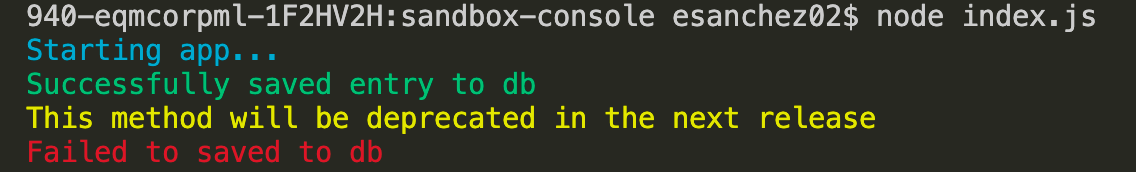
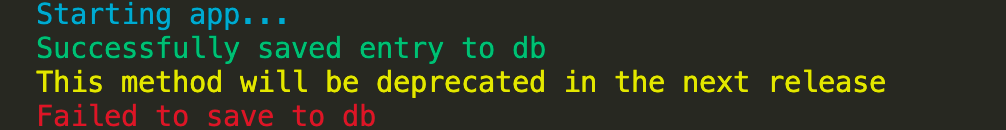
correct typo in Console.error example

Changed region(s): [[0.0, 0.0, 0.9861, 0.7692], [0.0, 0.8, 0.3698, 0.9846]]

diff --git a/README.md b/README.md
@@ -1,4 +1,4 @@
-# Dead Simple Console Colors
+# 💀 Dead Simple Console Colors 💀
 
 Straight forward info, success, warning, and error console color.
 
@@ -24,27 +24,27 @@ import Console from "dead-simple-console-colors"
 ```js
 /** 
  * Console.info() 
- * Log text in cyan color
+ * log text in cyan color
  **/
 Console.info("Starting app...") 
 
 /** 
  * Console.success()
- * Log text in green
+ * log text in green
  **/
 Console.success("Successfully saved entry to db") 
 
 /** 
  * Console.warn()
- * Log text in yellow
+ * log text in yellow
  **/
 Console.warn("This method will be deprecated in the next release") 
 
 /** 
  * Console.error()
- * Log text in red
+ * log text in red
  **/
-Console.error("Failed to saved to db") 
+Console.error("Failed to save to db") 
 
 ```
 
